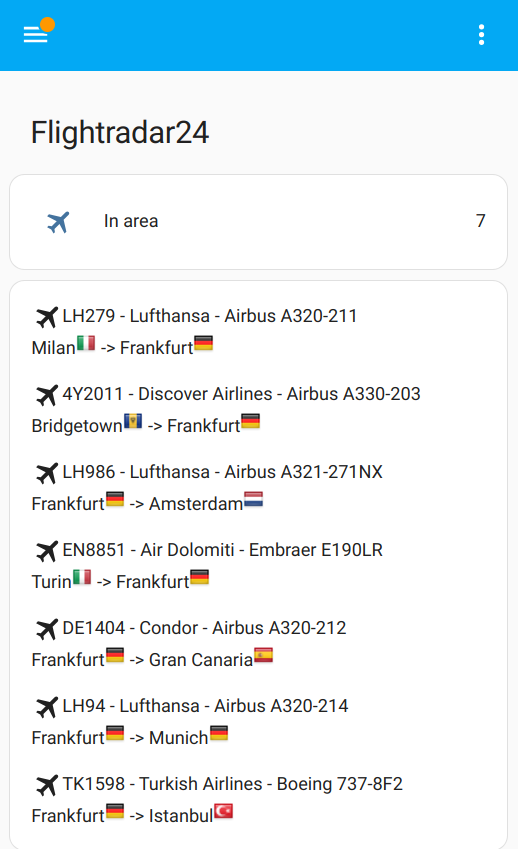
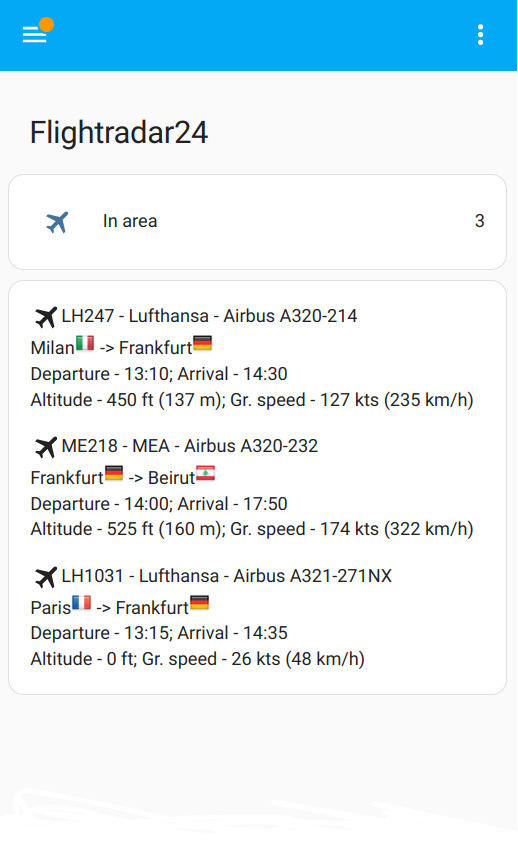
added latitude, longitude, altitude, ground_speed, heading

diff --git a/custom_components/flightradar24/coordinator.py b/custom_components/flightradar24/coordinator.py
@@ -118,6 +118,11 @@ class FlightRadar24Coordinator(DataUpdateCoordinator[int]):
                     flight = self._get_flight_data(data)
                 if flight is not None:
                     current[flight['id']] = flight
+                    flight['latitude'] = obj.latitude
+                    flight['longitude'] = obj.longitude
+                    flight['altitude'] = obj.altitude
+                    flight['heading'] = obj.heading
+                    flight['ground_speed'] = obj.ground_speed
 
             if self.tracked is not None:
                 entries = current.keys() - self.tracked.keys()

diff --git a/README.md b/README.md
@@ -100,6 +100,8 @@ cards:
           <ha-icon icon="mdi:airplane"></ha-icon>{{ flight.flight_number }} - {{ flight.airline_short }} - {{ flight.aircraft_model }}
           {{ flight.airport_origin_city }}{%if flight.airport_origin_city %}<img src="https://flagsapi.com/{{ flight.airport_origin_country_code }}/shiny/16.png" title='{{ flight.airport_origin_country_name }}'/>{% endif %} -> {{ flight.airport_destination_city }}{%
           if flight.airport_destination_country_code %}<img src="https://flagsapi.com/{{ flight.airport_destination_country_code }}/shiny/16.png" title='{{ flight.airport_destination_country_name }}'/>{% endif %}
+          {%if flight.time_scheduled_departure %}Departure - {{ flight.time_scheduled_departure | timestamp_custom('%H:%M') }}; {% endif %}{%if flight.time_scheduled_arrival%}Arrival - {{ flight.time_scheduled_arrival | timestamp_custom('%H:%M') }}{% endif %}
+          Altitude - {{ flight.altitude }} ft{%if flight.altitude > 0 %} ({{(flight.altitude * 0.3048)| round(0)}} m){% endif%}; Gr. speed - {{ flight.ground_speed }} kts{%if flight.ground_speed > 0 %} ({{(flight.ground_speed * 1.852)| round(0)}} km/h){% endif%}
           {% endfor %}
 ```
 
@@ -109,6 +111,11 @@ All available fields for flight you can check [here](#flight)
 | Field | Description |
 | --- |---|
 | flight_number | Flight Number |
+| latitude | Current latitude of the aircraft |
+| longitude | Current longitude of the aircraft |
+| altitude | Altitude (measurement: foot) |
+| ground_speed | Ground speed (measurement: knots) |
+| heading | The compass direction in which the craft's bow or nose is pointed (measurement: degrees) |
 | callsign | Callsign of the flight |
 | aircraft_registration | Aircraft registration number |
 | aircraft_photo_small | Aircraft small size photo url |
